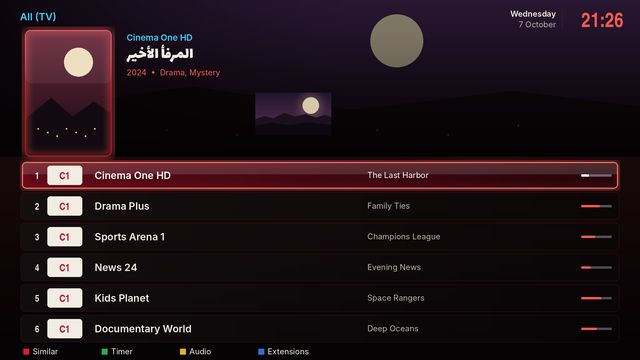
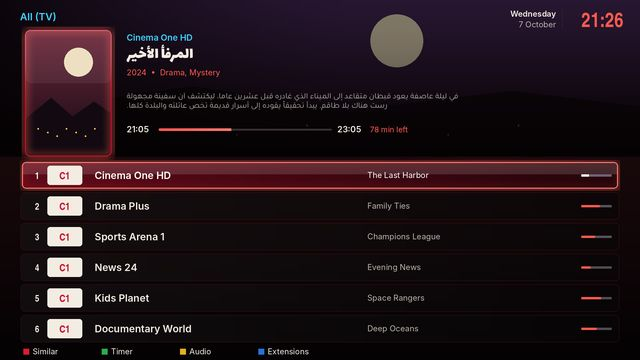
MohammedSkin 2.1.94 files

Changed region(s): [[0.1875, 0.2444, 0.7188, 0.3667]]

diff --git a/usr/lib/enigma2/python/Components/MohammedSkinUtils.py b/usr/lib/enigma2/python/Components/MohammedSkinUtils.py
@@ -25,7 +25,7 @@ NEGATIVE_TTL = 30 * 60  # retry titles that found nothing after 30 minutes
 TIMEOUT = 5
 UA = "Mozilla/5.0 (Enigma2; MohammedSkin)"
 
-SKIN_VERSION = "2.1.93"
+SKIN_VERSION = "2.1.94"
 
 UPDATE_BASE = "https://raw.githubusercontent.com/mido00020/MohammedSkin/main"
 UPDATE_CMD = 'wget -q --no-check-certificate "%s/installer.sh" -O - | NORESTART=1 /bin/sh' % UPDATE_BASE
@@ -2758,7 +2758,7 @@ def _live_channels(snippet):
 	Wide backdrop styles: in place of the backdrop. Carousel: in place of the poster wheel.
 	Poster styles: the poster and its details stay, the picture takes the place of the description
 	and the next programme under them."""
-	if ch_preview() != "live":
+	if ch_preview() != "live" or "<!-- nolive -->" in snippet:  # a few wide styles keep their details instead
 		return snippet
 	pig = '<widget source="session.VideoPicture" render="Pig" position="%d,%d" size="%d,%d" backgroundColor="transparent" zPosition="%d" />'
 
